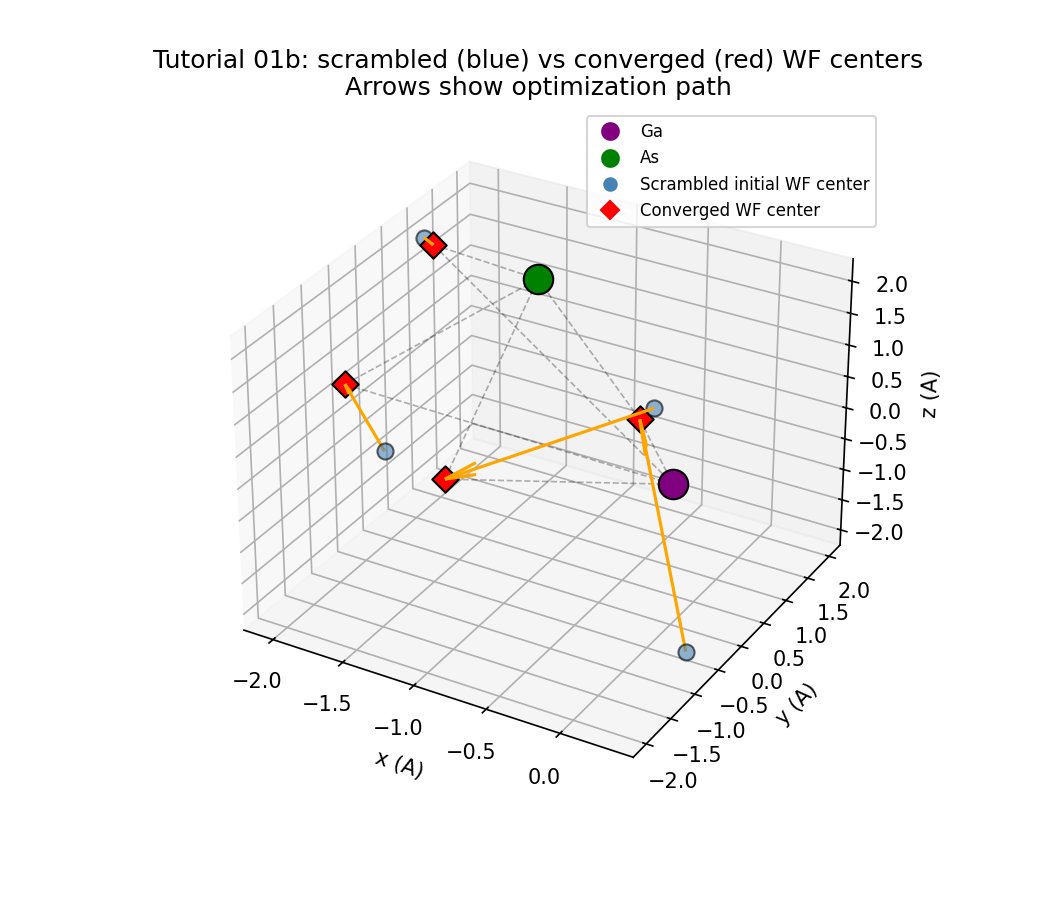
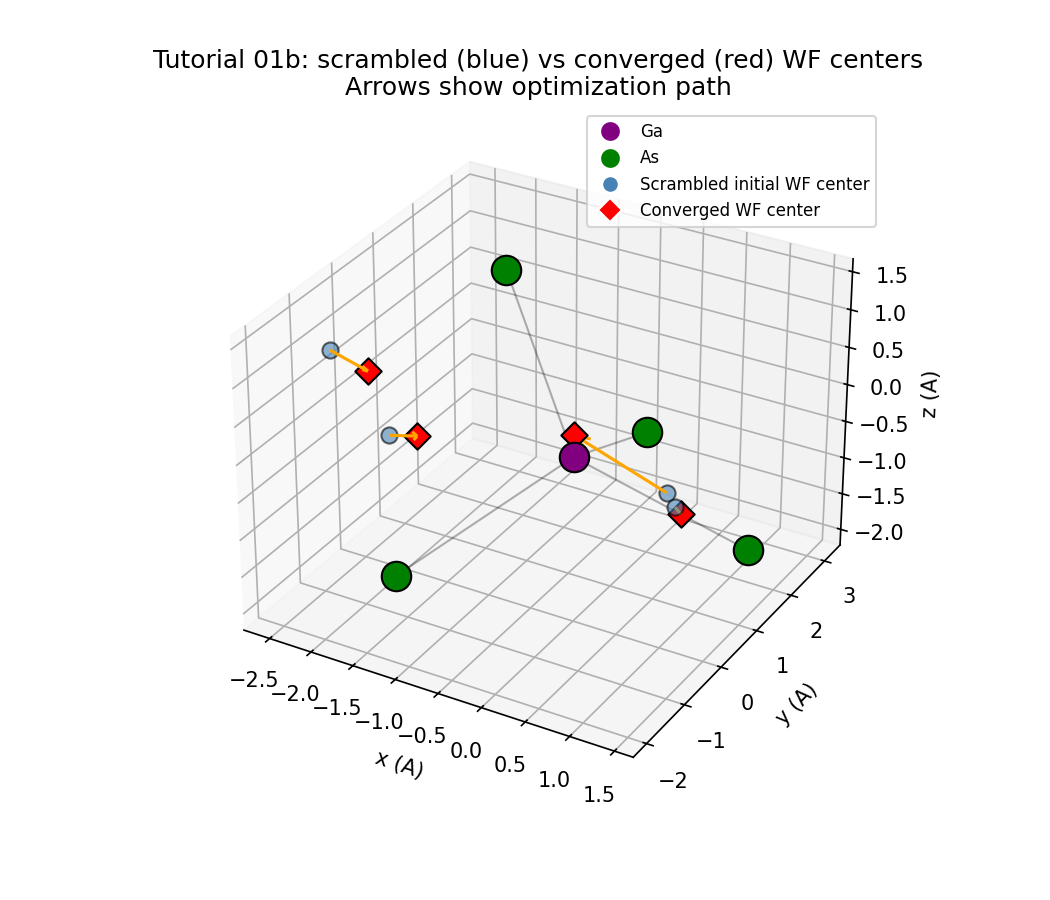
Improve tutorial01b Wannier centers plot
- Plot central Ga with its 4 nearest As neighbors (tetrahedral cluster)
  instead of just the unit cell atoms
- Shift final WF centers modulo lattice vectors to lie on the nearest
  bond midpoints using Hungarian assignment
- Match scrambled initial centers to final centers optimally to minimize
  arrow lengths, avoiding crossed arrows from arbitrary WF numbering

https://claude.ai/code/session_013BsgFVBpB7yJMQinjy6qx9

diff --git a/tutorials/tutorial01/tutorial01b.py b/tutorials/tutorial01/tutorial01b.py
@@ -260,43 +260,113 @@ try:
 
     # --- 3D plot: scrambled-initial vs converged WF centers ---
     from matplotlib.lines import Line2D
+    from scipy.optimize import linear_sum_assignment
 
     atoms = wan_scrambled.atoms
+    cell = atoms.cell[:]  # (3, 3) lattice vectors
+
+    # (1) Build cluster: central Ga and its 4 nearest As neighbors
+    ga_pos = atoms[[a.symbol == 'Ga' for a in atoms]].positions[0]
+    as_pos = atoms[[a.symbol == 'As' for a in atoms]].positions[0]
+
+    # Generate As images and pick the 4 closest to Ga
+    as_images = []
+    for n1 in range(-1, 2):
+        for n2 in range(-1, 2):
+            for n3 in range(-1, 2):
+                as_images.append(as_pos + n1 * cell[0]
+                                 + n2 * cell[1] + n3 * cell[2])
+    as_images = np.array(as_images)
+    dists = np.linalg.norm(as_images - ga_pos, axis=1)
+    nearest_4 = as_images[np.argsort(dists)[:4]]
+
+    # Bond midpoints: expected WF center positions
+    bond_midpoints = (ga_pos + nearest_4) / 2
+
+    # (2) Helper: shift a point by lattice vectors to be closest to a target
+    def shift_to_nearest(point, target, cell):
+        best = point.copy()
+        best_d = np.linalg.norm(point - target)
+        for n1 in range(-2, 3):
+            for n2 in range(-2, 3):
+                for n3 in range(-2, 3):
+                    shifted = point + n1 * cell[0] + n2 * cell[1] + n3 * cell[2]
+                    d = np.linalg.norm(shifted - target)
+                    if d < best_d:
+                        best_d = d
+                        best = shifted
+        return best
+
+    # Shift each final WF center to the nearest bond midpoint
+    # Use Hungarian algorithm for optimal assignment
+    Nw = wan_scrambled.nwannier
+    cost_final = np.zeros((Nw, 4))
+    shifted_finals = [[None] * 4 for _ in range(Nw)]
+    for w in range(Nw):
+        for b in range(4):
+            s = shift_to_nearest(centers_scrambled_final[w],
+                                 bond_midpoints[b], cell)
+            shifted_finals[w][b] = s
+            cost_final[w, b] = np.linalg.norm(s - bond_midpoints[b])
+    row_ind, col_ind = linear_sum_assignment(cost_final)
+    final_plot = np.array([shifted_finals[w][b]
+                           for w, b in zip(row_ind, col_ind)])
+
+    # (3) Shift each scrambled-initial center closest to its matched
+    # final center, then use Hungarian to minimize total arrow length
+    init_shifted_to_final = np.array([
+        shift_to_nearest(centers_scrambled_init[w], final_plot[w], cell)
+        for w in range(Nw)
+    ])
+    # Hungarian matching of initial → final to minimize arrow lengths
+    cost_arrows = np.zeros((Nw, Nw))
+    best_init_for_pair = [[None] * Nw for _ in range(Nw)]
+    for i in range(Nw):
+        for f in range(Nw):
+            s = shift_to_nearest(centers_scrambled_init[i],
+                                 final_plot[f], cell)
+            best_init_for_pair[i][f] = s
+            cost_arrows[i, f] = np.linalg.norm(s - final_plot[f])
+    init_row, init_col = linear_sum_assignment(cost_arrows)
+    init_plot = np.array([best_init_for_pair[i][f]
+                          for i, f in zip(init_row, init_col)])
+    # Reorder so init_plot[j] maps to final_plot[j]
+    reordered_init = np.empty_like(init_plot)
+    for i, f in zip(init_row, init_col):
+        reordered_init[f] = best_init_for_pair[i][f]
+    init_plot = reordered_init
 
     fig2 = plt.figure(figsize=(7, 6))
     ax2 = fig2.add_subplot(111, projection='3d')
 
-    # Plot atoms
-    for a in atoms:
-        color = 'purple' if a.symbol == 'Ga' else 'green'
-        ax2.scatter(*a.position, s=200, c=color, edgecolors='k', zorder=5)
+    # Plot atoms: central Ga + 4 nearest As
+    ax2.scatter(*ga_pos, s=200, c='purple', edgecolors='k', zorder=5)
+    for a_pos in nearest_4:
+        ax2.scatter(*a_pos, s=200, c='green', edgecolors='k', zorder=5)
+
+    # Draw Ga-As bonds
+    for a_pos in nearest_4:
+        ax2.plot([ga_pos[0], a_pos[0]],
+                 [ga_pos[1], a_pos[1]],
+                 [ga_pos[2], a_pos[2]],
+                 'k-', alpha=0.3, linewidth=1.0)
 
     # Plot scrambled initial Wannier centers (blue circles)
-    for w in range(wan_scrambled.nwannier):
-        ax2.scatter(*centers_scrambled_init[w], s=60, c='steelblue',
+    for w in range(Nw):
+        ax2.scatter(*init_plot[w], s=60, c='steelblue',
                     marker='o', edgecolors='k', alpha=0.6, zorder=3)
 
     # Plot converged Wannier centers (red diamonds)
-    for w in range(wan_scrambled.nwannier):
-        ax2.scatter(*centers_scrambled_final[w], s=80, c='red', marker='D',
+    for w in range(Nw):
+        ax2.scatter(*final_plot[w], s=80, c='red', marker='D',
                     edgecolors='k', zorder=4)
 
     # Draw arrows from scrambled-initial to converged centers
-    for w in range(wan_scrambled.nwannier):
-        dx = centers_scrambled_final[w] - centers_scrambled_init[w]
-        ax2.quiver(centers_scrambled_init[w][0],
-                   centers_scrambled_init[w][1],
-                   centers_scrambled_init[w][2],
+    for w in range(Nw):
+        dx = final_plot[w] - init_plot[w]
+        ax2.quiver(init_plot[w][0], init_plot[w][1], init_plot[w][2],
                    dx[0], dx[1], dx[2],
                    color='orange', linewidth=1.5, arrow_length_ratio=0.15)
-
-    # Draw lines from each converged WF center to both atoms
-    for w in range(wan_scrambled.nwannier):
-        for a in atoms:
-            ax2.plot([centers_scrambled_final[w][0], a.position[0]],
-                     [centers_scrambled_final[w][1], a.position[1]],
-                     [centers_scrambled_final[w][2], a.position[2]],
-                     'k--', alpha=0.3, linewidth=0.8)
 
     ax2.set_xlabel('x (A)')
     ax2.set_ylabel('y (A)')
